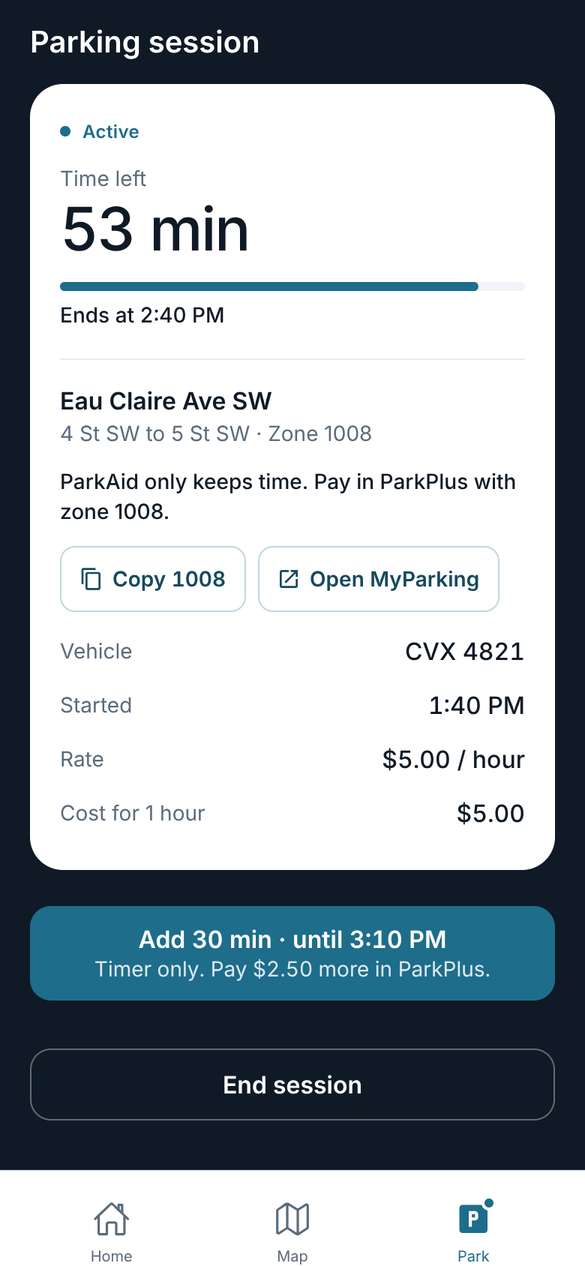
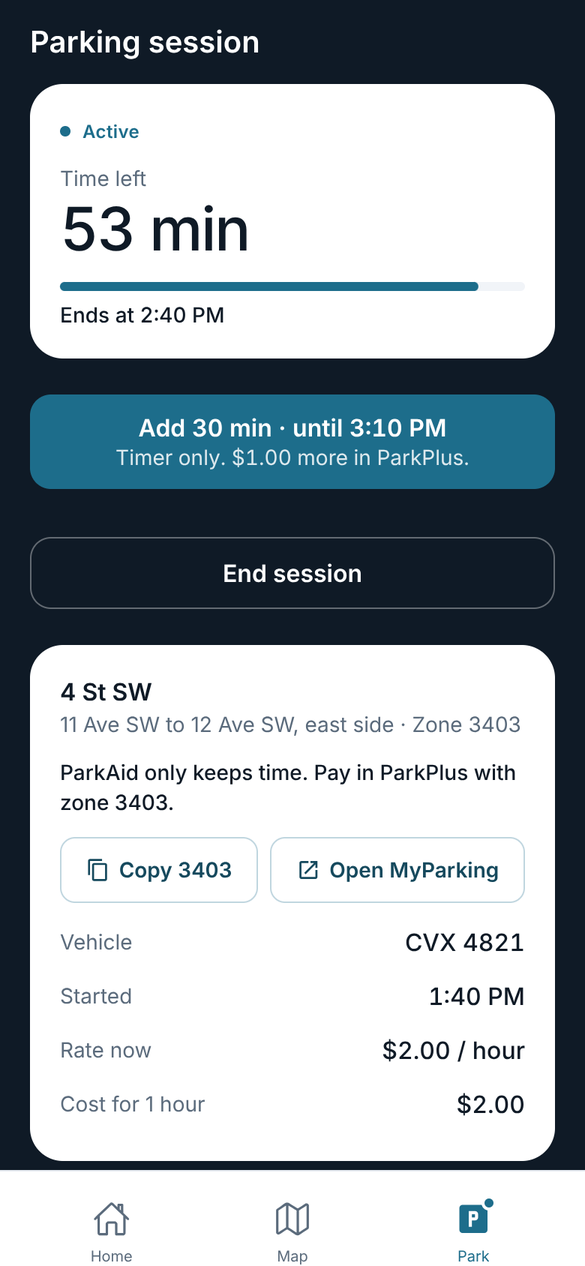
docs: README screens from the City's real records
The screenshots used eight made-up spots, one of them pinned about
700 m from its real block. They are now captured from the City's own
records for the blocks around 11 Ave SW and 5 St SW (zones, hours,
rates and rush-hour restrictions) on a Tuesday at 1:40 PM, so they show
what a driver there would see, including the 3:30 PM restriction. The
alt text and the feature list say what is new: the day's rates, the
side of the street, grouped pins and the reminder to end MyParking.

Claude-Session: https://claude.ai/code/session_01BAqhrSuRcLcLiCVgthGree

diff --git a/README.md b/README.md
@@ -17,18 +17,23 @@ needs one setting to reach it (`EXPO_PUBLIC_API_URL`).
   closest or by best value. Filters, shared by the list and the map, narrow
   it to street, lot, parkade or permit parking within 150 m to 1 km.
 - Shows spots on a map as pins with their hourly rate, so you can compare
-  without tapping each one. Drop a pin, drag the map and search that area, or
-  search an address to look somewhere else. The web build has a real map
-  too, drawn from OpenStreetMap.
-- Opens a details page for each spot: the rate and when it is charged, the
-  ParkPlus zone to pay at, the maximum stay, the walk, and directions.
+  without tapping each one. Pins too close to tell apart share one, with a
+  count and the lowest rate, and a tap zooms in. Drop a pin, drag the map and
+  search that area, or search an address to look somewhere else. The web
+  build has a real map too, drawn from OpenStreetMap.
+- Opens a details page for each spot: the rate now and the City's rates
+  through the day, when it is charged, rush-hour times when nobody may park,
+  the side of the street, the ParkPlus zone to pay at, the maximum stay, the
+  walk, and directions.
 - Times your parking. Pick where you parked from your last search, or give
   the zone from the sign. You see the end time and the cost before you start,
   counting only the hours the City charges. Durations stay within the posted
-  maximum, added time can be undone, and it tells you when it is time to walk
-  back.
+  maximum and end before a rush-hour restriction starts, added time can be
+  undone, and it tells you when it is time to walk back.
 - Says plainly that it does not pay the City. Copy the zone and open
-  MyParking, the City's ParkPlus app, to pay.
+  MyParking, the City's ParkPlus app, to pay. When your time is up or you
+  end the session, it reminds you to end the MyParking session too, since
+  that one keeps charging until you do.
 - Keeps working when the network drops. Responses are cached on the phone, so
   the app shows the last data it had and says when it was saved. When there
   is nothing saved, it says plainly whether you are offline, the data is
@@ -39,14 +44,16 @@ needs one setting to reach it (`EXPO_PUBLIC_API_URL`).
 
 | Welcome | Home | Map |
 | --- | --- | --- |
-| <img src="docs/screens/01-welcome.png" width="240" alt="Welcome screen with the ParkAid pin and an Explore parking button"> | <img src="docs/screens/02-home.png" width="240" alt="Home with a greeting, search, sort chips and a suggested spot"> | <img src="docs/screens/03-map.png" width="240" alt="Street map of downtown Calgary with priced, lot and permit pins and a selected spot in the bottom sheet"> |
+| <img src="docs/screens/01-welcome.png" width="240" alt="Welcome screen with the ParkAid pin and an Explore parking button"> | <img src="docs/screens/02-home.png" width="240" alt="Home suggesting a spot on 11 Ave SW with its block, zone and walk and a warning of no parking from 3:30 PM, then the rest of the list"> | <img src="docs/screens/03-map.png" width="240" alt="Map of the Beltline with pins grouped where they would overlap, each group showing its count and lowest rate, and a selected spot on 4 St SW in the bottom sheet"> |
 
 | Details | Park | Session |
 | --- | --- | --- |
-| <img src="docs/screens/04-details.png" width="240" alt="Details for a street block: a small map, the rate and when it is charged, the walk, the maximum stay and the zone"> | <img src="docs/screens/05-park-setup.png" width="240" alt="Session setup with plate, duration, end time, cost and where to pay"> | <img src="docs/screens/06-session.png" width="240" alt="Running session with time left, where to pay in ParkPlus and an Add 30 min button that says it only changes the timer"> |
+| <img src="docs/screens/04-details.png" width="240" alt="Details for 4 St SW: the rate now, no parking from 3:30 PM, the hours the City charges, the walk, the 2 hour maximum, the rush-hour restriction and the hourly rates for the day"> | <img src="docs/screens/05-park-setup.png" width="240" alt="Session setup with plate and durations up to 1 hour 50 min, since parking stops at 3:30 PM, with the end time, cost and where to pay"> | <img src="docs/screens/06-session.png" width="240" alt="Running session with time left, an Add 30 min button that says it only changes the timer and costs 1 dollar more in ParkPlus, End session, then where to pay"> |
 
-Captured from the web build with sample data. On web the map is MapLibre with
-OpenStreetMap tiles from OpenFreeMap; iOS and Android use Google Maps.
+Captured from the web build on a Tuesday at 1:40 PM, with the City's real
+records for the blocks around 11 Ave SW and 5 St SW: their zones, hours, rates
+and rush-hour restrictions. On web the map is MapLibre with OpenStreetMap tiles
+from OpenFreeMap; iOS and Android use Google Maps.
 
 ## Tech stack
 
